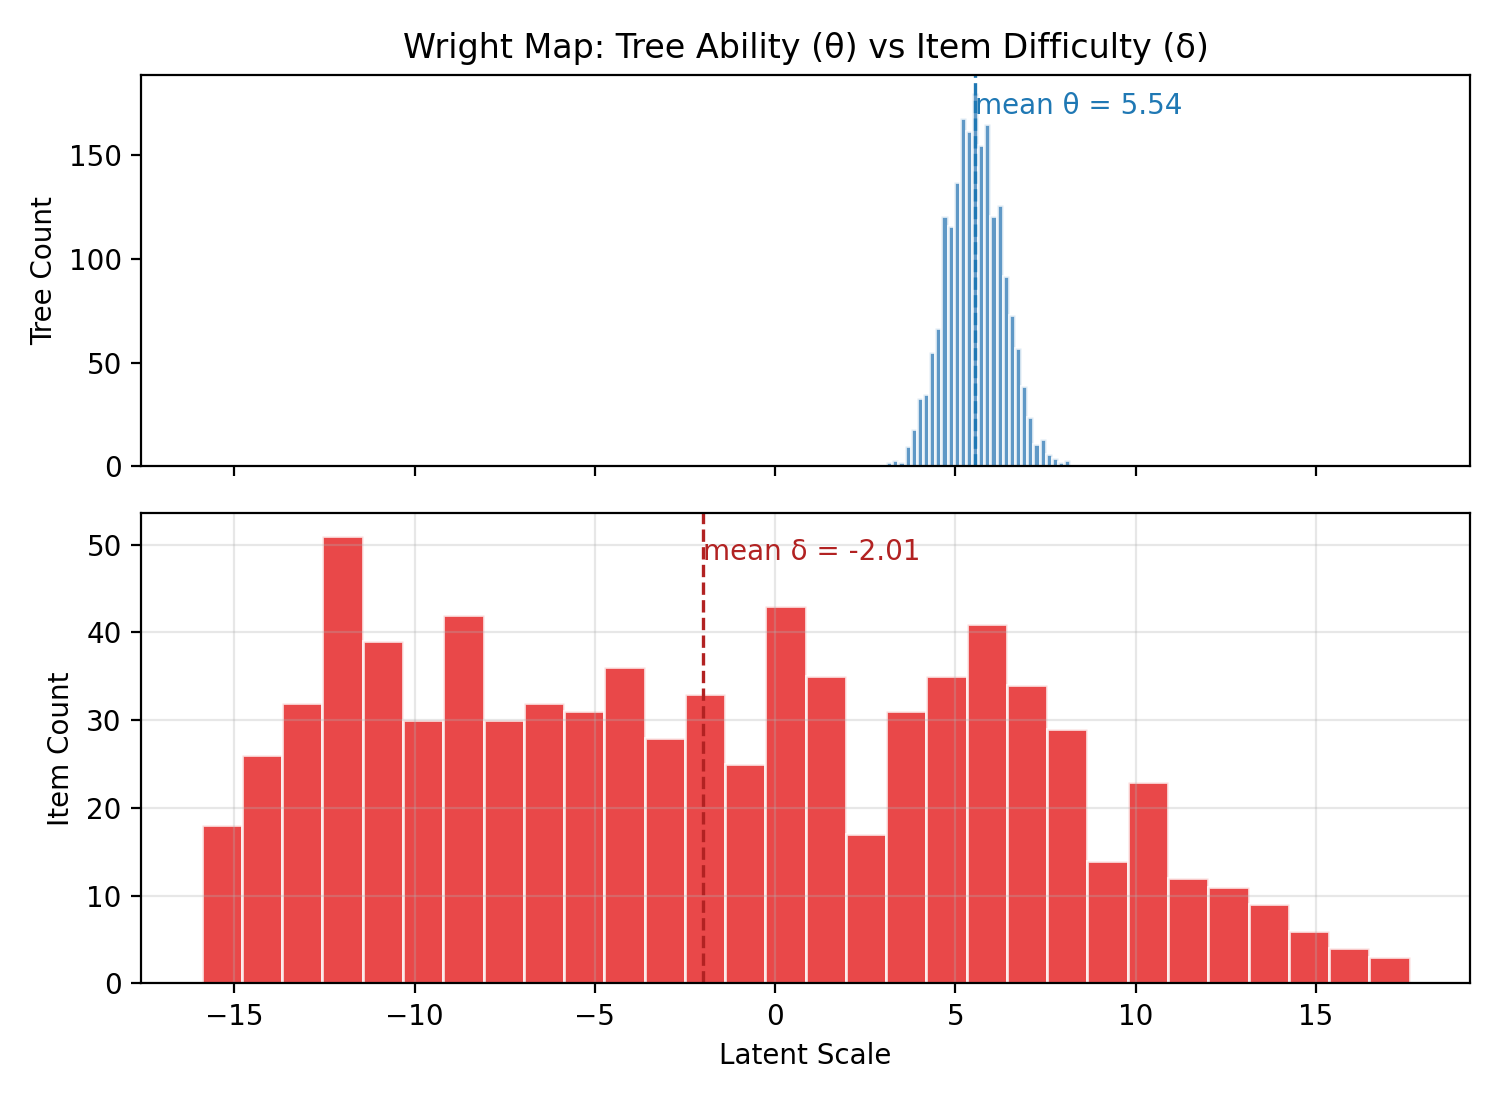
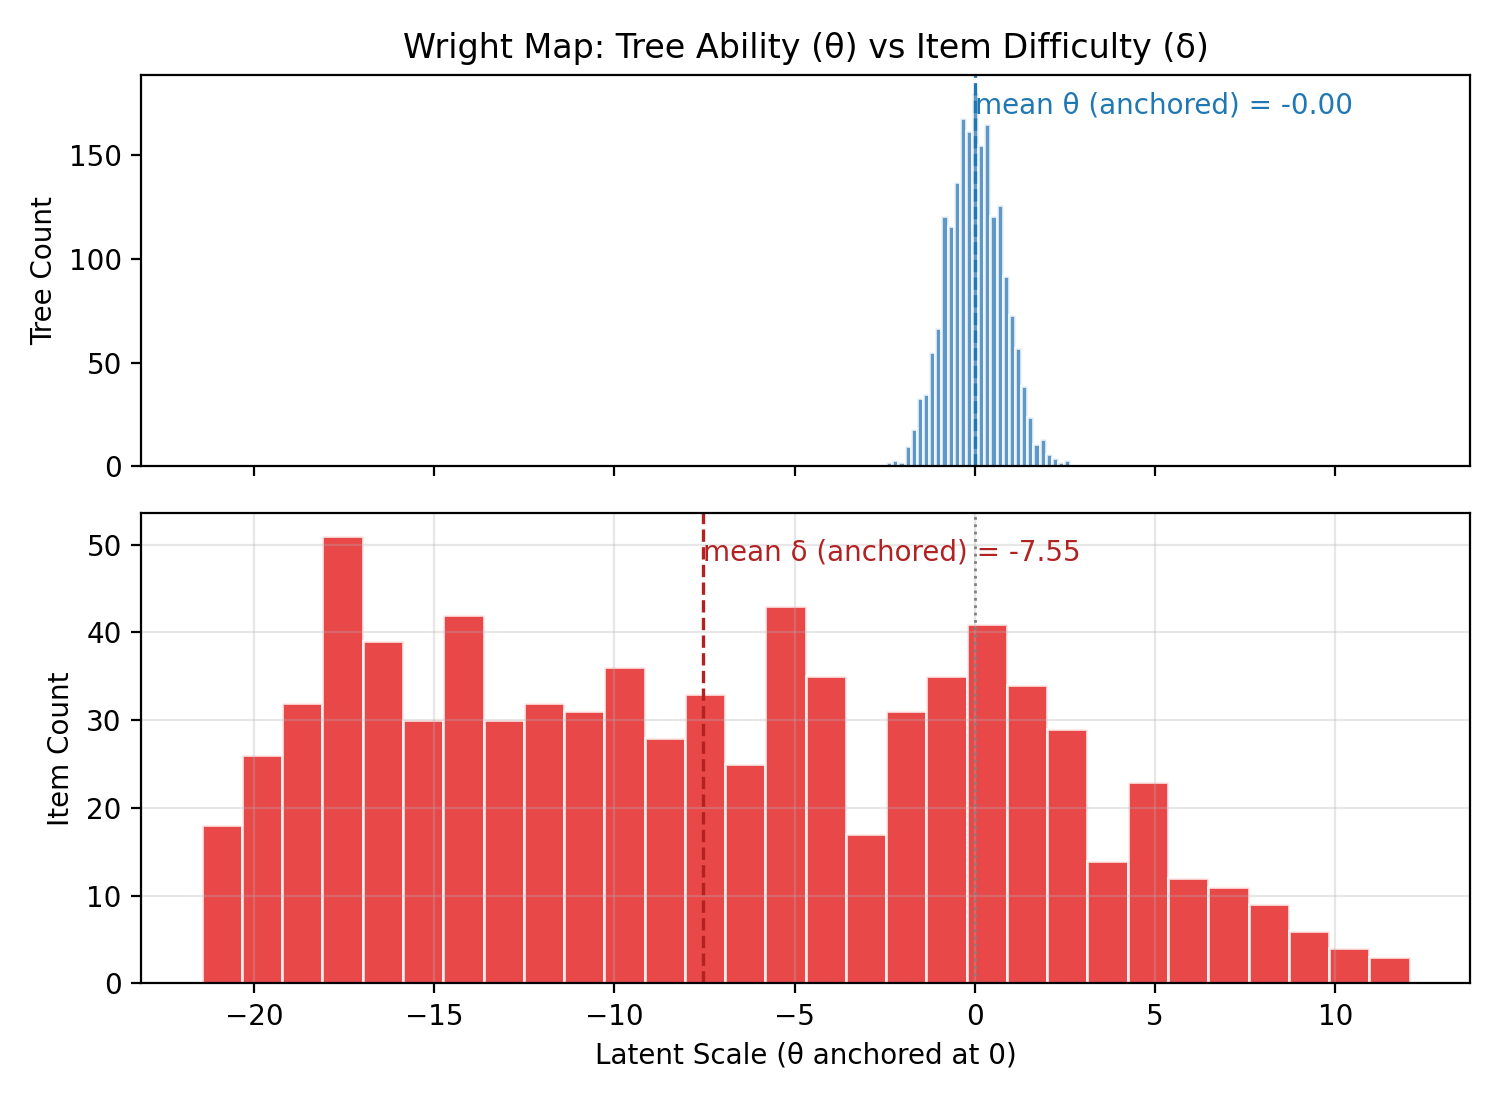
fix wright maps - center person map on 0

diff --git a/scripts/plot_wright_map.py b/scripts/plot_wright_map.py
@@ -46,13 +46,20 @@ def plot_wright_map(
     bins: int,
     output: Path,
 ) -> None:
+    # Anchor both distributions so the mean tree ability lands at zero.
+    ability_mean = ability.mean()
+    ability_centered = ability - ability_mean
+    difficulty_centered = difficulty - ability_mean
+    ability_centered_mean = ability_centered.mean()
+    difficulty_centered_mean = difficulty_centered.mean()
+
     output.parent.mkdir(parents=True, exist_ok=True)
     fig, (ax_top, ax_bottom) = plt.subplots(
         nrows=2, ncols=1, figsize=(7.5, 5.5), sharex=True, height_ratios=[1, 1.2]
     )
 
     ax_top.hist(
-        ability,
+        ability_centered,
         bins=bins,
         color="#377eb8",
         alpha=0.8,
@@ -60,29 +67,32 @@ def plot_wright_map(
     )
     ax_top.set_ylabel("Tree Count")
     ax_top.set_title("Wright Map: Tree Ability (θ) vs Item Difficulty (δ)")
-    ax_top.axvline(ability.mean(), color="#1f78b4", linestyle="--", linewidth=1.2)
+    ax_top.axvline(0.0, color="#1f78b4", linestyle="--", linewidth=1.2)
     ax_top.text(
-        ability.mean(),
+        0.0,
         ax_top.get_ylim()[1] * 0.9,
-        f"mean θ = {ability.mean():.2f}",
+        f"mean θ (anchored) = {ability_centered_mean:.2f}",
         color="#1f78b4",
         ha="left",
     )
 
     ax_bottom.hist(
-        difficulty,
+        difficulty_centered,
         bins=bins,
         color="#e41a1c",
         alpha=0.8,
         edgecolor="white",
     )
     ax_bottom.set_ylabel("Item Count")
-    ax_bottom.set_xlabel("Latent Scale")
-    ax_bottom.axvline(difficulty.mean(), color="#b22222", linestyle="--", linewidth=1.2)
+    ax_bottom.set_xlabel("Latent Scale (θ anchored at 0)")
+    ax_bottom.axvline(
+        difficulty_centered_mean, color="#b22222", linestyle="--", linewidth=1.2
+    )
+    ax_bottom.axvline(0.0, color="gray", linestyle=":", linewidth=1.0)
     ax_bottom.text(
-        difficulty.mean(),
+        difficulty_centered_mean,
         ax_bottom.get_ylim()[1] * 0.9,
-        f"mean δ = {difficulty.mean():.2f}",
+        f"mean δ (anchored) = {difficulty_centered_mean:.2f}",
         color="#b22222",
         ha="left",
     )

diff --git a/slides.md b/slides.md
@@ -68,7 +68,7 @@ footer: ATS &copy; 2025, CC-BY 4.0
 
 - Background: IRT + RF primers
 - Pipeline: datasets, embeddings, and response matrices
-- Case studies: CIFAR (PCA), CIFAR (MobileNet), MNIST
+- Case studies: Rasch Family models (1PL) on CIFAR (PCA), CIFAR (MobileNet), MNIST
 - Cross-study comparison, 2PL/3PL updates, takeaways, next steps
 
 ---
@@ -331,13 +331,13 @@ The **entropy** measures how dispersed the votes are across classes.
   <div class="col">
   <center>
   <img width="84%" src="figures/wright_map.png" style="width:95%; border:1px solid #ccc;" />
-  <p style="font-size:85%; text-align:center;">Wright map: θ mean ≈ −11.0 (σ ≈ 0.56); δ mean ≈ 5.8 with a wide tail</p>
+  <p style="font-size:85%; text-align:center;">Wright map: δ pushes deep into the positive tail</p>
     </center>
   </div>
 </div>
 
-- θ ranges from about −12.8 to −8.9 (mean ≈ −11.0 ± 0.56), so even small shifts separate stronger trees by a few percentage points.
-- δ centers near 5.8 but stretches from roughly −11.5 to 13.4, highlighting how ambiguous animal items sit far from the easy tail.
+- θ falls between roughly −1.9 and +2.1 logits, so even modest shifts still separate stronger trees by a few percentage points.
+- δ ranges from about −0.5 to +24 logits after centering, highlighting how ambiguous animal items sit far from the easy tail.
 
 ---
 
@@ -527,12 +527,12 @@ The **entropy** measures how dispersed the votes are across classes.
   <div class="col">
   <center>
     <img width="84%" src="figures/mobilenet/wright_map.png" style="width:100%; border:1px solid #ccc;" />
-  <p style="font-size:85%; text-align:center;">Wright map: θ ≈ −0.46 ± 0.23; δ spans ±2.1</p>
+  <p style="font-size:85%; text-align:center;">Wright map: δ stretches about ±16 logits</p>
   </center>
   </div>
 </div>
 
-- θ mean −0.46 ± 0.23 keeps the ensemble tightly banded while still ranking trees cleanly.
+- θ stays within roughly ±2 logits, keeping the ensemble tightly banded while still ranking trees cleanly.
 - Ability remains tied to per-tree accuracy, so feature quality—rather than tree diversity—now caps gains.
 
 ---
@@ -698,12 +698,12 @@ The **entropy** measures how dispersed the votes are across classes.
   <div class="col">
   <center>
     <img width="74%" src="figures/mnist/wright_map.png" style="width:100%; border:1px solid #ccc;" />
-  <p style="font-size:85%; text-align:center;">Wright map: θ mean 3.04 ± 0.29; δ mean −0.13 ± 0.47</p>
+  <p style="font-size:85%; text-align:center;">Wright map: most digits land several logits below</p>
   </center>
   </div>
 </div>
 
-- θ mean 3.04 ± 0.29 shows strong consensus, while δ mean −0.13 ± 0.47 keeps a modest positive tail for ambiguous strokes.
+- θ covers roughly −2.5 to +2.6 logits, underscoring strong consensus, while most δ values sit several logits below the trees with only a handful near the origin.
 - Shared scales expose plentiful easy wins with only a few sharp spikes—opposite of the CIFAR baseline.
 
 
